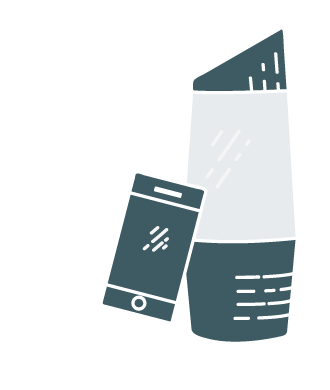
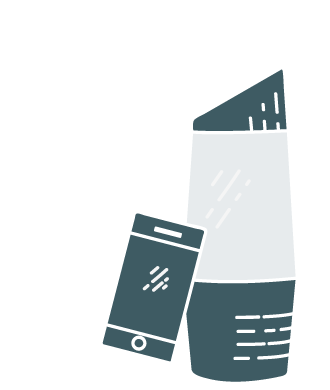
Made some animation changes. Added links to the contacts page.

Changed region(s): [[0.303, 0.4308, 0.9091, 0.9846], [0.5758, 0.0615, 0.8788, 0.3385]]

diff --git a/src/style.css b/src/style.css
@@ -1,1 +1,1 @@
-*{-webkit-box-sizing:border-box;-moz-box-sizing:border-box;box-sizing:border-box;color:#3E5B63}::selection{background:#3E5B63;color:#E7E5D6}::-moz-selection{background:#3E5B63;color:#E7E5D6}:-ms-input-placeholder,::-moz-placeholder,::-webkit-input-placeholder{color:#E7E5D6}:-ms-input-placeholder,::-moz-placeholder,::-webkit-input-placeholder,::placeholder{color:#E7E5D6}html{background:#E7E5D6;font-size:14px}body{margin:0;padding:0;width:100%;height:100%}section{height:100vh;width:100vw}h1,h2,h3{font-family:Poppins,sans-serif;text-transform:uppercase}button,p,small,ul{font-family:'Open Sans',sans-serif;margin:0}h1{font-size:4rem;margin:0}h2{font-size:2rem;position:relative}h3{font-size:3rem}.btn{border:3px solid #3E5B63;display:inline-block;margin-top:2rem}.btn button{background:0 0;border:none;color:#3E5B63;cursor:pointer;font-weight:900;font-size:1rem;height:4rem;position:relative;text-transform:uppercase;-webkit-transition:color 300ms;transition:color 300ms;width:19rem}.btn button::after{background:#3E5B63;bottom:0;content:"";left:0;position:absolute;height:0;-webkit-transition:height 300ms;transition:height 300ms;width:100%;z-index:-1}.btn:hover button{color:#E7E5D6}.btn:hover button::after{height:100%}p{font-size:1.25rem}main section{position:relative}.sect-text h2{line-height:1.25}.introduction{background:url(../src/img/bernard_cutout.png) 100% 100% no-repeat #E7E5D6;background-size:auto 90%;z-index:3}.introduction .sect-text p{width:100%}.sect-text{position:absolute;top:20%}.text-left{left:15%}.text-center{text-align:center}.text-right{right:15%}@media only screen and (min-width:768px) and (max-width:1023px){.text-right{right:10%}}.text-shallow{width:30%}@media only screen and (min-width:768px) and (max-width:1023px){.text-shallow{width:35%}}.product-presentation{background:url(../src/img/kitchen_bg.jpg) 100% 50% no-repeat;background-size:100% auto;z-index:1}@media only screen and (min-width:768px) and (max-width:1023px){.product-presentation{background-position:100% 0;background-size:auto 100%}}.problem-statement h2::after,.product-presentation h2::after{background-color:#E7E5D6;content:"";height:1px;left:0;position:absolute;top:110%;width:50%}.lightbar{background:url(../src/img/bernard_rising_light.png) no-repeat;bottom:15%;height:591px;left:10%;position:absolute;width:400px}@media only screen and (min-width:768px) and (max-width:1023px){.lightbar{bottom:20%}}.light-1{background-position:0 0}.light-2{background-position:-400px 0}.light-3{background-position:-800px 0}.light-4{background-position:-1200px 0}.product-presentation .sect-text h2,.product-presentation .sect-text p,.product-presentation .sect-text small{color:#E7E5D6}.problem-statement{background-image:url(img/bernard_binary.png)}@media only screen and (min-width:768px) and (max-width:1023px){.problem-statement{-webkit-box-align:center;-webkit-align-items:center;-ms-flex-align:center;align-items:center;display:-webkit-box;display:-webkit-flex;display:-ms-flexbox;display:flex;-webkit-box-orient:vertical;-webkit-box-direction:normal;-webkit-flex-direction:column;-ms-flex-direction:column;flex-direction:column;-webkit-box-pack:center;-webkit-justify-content:center;-ms-flex-pack:center;justify-content:center}}.problem-statement h2::after{background-color:#3E5B63}.problem-statement img{position:absolute;width:20rem;top:30%}.problem-statement .sect-text{top:30%}.pig-img{right:20%}.card-img{-webkit-transform:rotate(-100deg) translate(-webkit-calc(20rem + 20px));-ms-transform:rotate(-100deg) translate(calc(20rem + 20px));transform:rotate(-100deg) translate(calc(20rem + 20px));right:12%}.how-it-works{background:#3E5B63}@media only screen and (min-width:768px) and (max-width:1023px){.how-it-works{-webkit-box-align:center;-webkit-align-items:center;-ms-flex-align:center;align-items:center;display:-webkit-box;display:-webkit-flex;display:-ms-flexbox;display:flex;-webkit-box-orient:vertical;-webkit-box-direction:normal;-webkit-flex-direction:column;-ms-flex-direction:column;flex-direction:column;-webkit-box-pack:center;-webkit-justify-content:center;-ms-flex-pack:center;justify-content:center}}.how-it-works h2{color:#E7E5D6;padding-top:3rem;margin-top:0}.steps{display:-webkit-box;display:-webkit-flex;display:-ms-flexbox;display:flex;-webkit-box-pack:center;-webkit-justify-content:center;-ms-flex-pack:center;justify-content:center;width:100%}.step{margin:0 2.5vw;text-align:center;width:20vw}@media only screen and (min-width:768px) and (max-width:1023px){.step{margin:0 1vw;width:31vw}}.step-number{-webkit-box-align:center;-webkit-align-items:center;-ms-flex-align:center;align-items:center;display:-webkit-box;display:-webkit-flex;display:-ms-flexbox;display:flex;-webkit-box-pack:center;-webkit-justify-content:center;-ms-flex-pack:center;justify-content:center;margin:1rem 0;width:100%}.step-number span{background:#E7E5D6;-webkit-box-align:center;-webkit-align-items:center;-ms-flex-align:center;align-items:center;border:3px solid #E7E5D6;border-radius:100%;color:#3E5B63;display:-webkit-box;display:-webkit-flex;display:-ms-flexbox;display:flex;font-family:Poppins,sans-serif;font-size:1.5rem;font-weight:900;height:2.5rem;-webkit-box-pack:center;-webkit-justify-content:center;-ms-flex-pack:center;justify-content:center;text-align:center;vertical-align:middle;width:2.5rem}.step-img-container{height:33vh;position:relative}@media only screen and (min-width:768px) and (max-width:1023px){.step-img-container{height:20vh}}.step img{bottom:0;height:100%;left:0;margin-top:5rem;position:absolute;width:auto}.phonehand{-webkit-animation-name:phonehand;animation-name:phonehand;-webkit-animation-duration:1500ms;animation-duration:1500ms;-webkit-animation-timing-function:ease-in-out;animation-timing-function:ease-in-out;-webkit-animation-delay:0;animation-delay:0;-webkit-animation-iteration-count:infinite;animation-iteration-count:infinite;-webkit-animation-direction:alternate;animation-direction:alternate;-webkit-animation-fill-mode:none;animation-fill-mode:none}@-webkit-keyframes phonehand{from{-webkit-transform:translate(5px,5px);transform:translate(5px,5px)}to{-webkit-transform:translate(5px,12px);transform:translate(5px,12px)}}@keyframes phonehand{from{-webkit-transform:translate(5px,5px);-ms-transform:translate(5px,5px);transform:translate(5px,5px)}to{-webkit-transform:translate(5px,12px);-ms-transform:translate(5px,12px);transform:translate(5px,12px)}}.cardhand{-webkit-animation:1500ms cardhand infinite alternate ease-in-out;animation:1500ms cardhand infinite alternate ease-in-out;-webkit-animation-name:cardhand;animation-name:cardhand;-webkit-animation-duration:1500ms;animation-duration:1500ms;-webkit-animation-timing-function:ease-in-out;animation-timing-function:ease-in-out;-webkit-animation-delay:0;animation-delay:0;-webkit-animation-iteration-count:infinite;animation-iteration-count:infinite;-webkit-animation-direction:alternate;animation-direction:alternate;-webkit-animation-fill-mode:none;animation-fill-mode:none;-webkit-transform:translate(10px,-15px);-ms-transform:translate(10px,-15px);transform:translate(10px,-15px)}@-webkit-keyframes cardhand{from{-webkit-transform:translate(10px,-15px);transform:translate(10px,-15px)}to{-webkit-transform:translate(12px,-3px);transform:translate(12px,-3px)}}@keyframes cardhand{from{-webkit-transform:translate(10px,-15px);-ms-transform:translate(10px,-15px);transform:translate(10px,-15px)}to{-webkit-transform:translate(12px,-3px);-ms-transform:translate(12px,-3px);transform:translate(12px,-3px)}}.hammerhand{-webkit-animation-name:hammerhand;animation-name:hammerhand;-webkit-animation-duration:7500ms;animation-duration:7500ms;-webkit-animation-timing-function:ease-in-out;animation-timing-function:ease-in-out;-webkit-animation-delay:0;animation-delay:0;-webkit-animation-iteration-count:infinite;animation-iteration-count:infinite;-webkit-animation-direction:alternate;animation-direction:alternate;-webkit-animation-fill-mode:none;animation-fill-mode:none;-webkit-transform:rotate(-15deg) translate(20px,0);-ms-transform:rotate(-15deg) translate(20px,0);transform:rotate(-15deg) translate(20px,0)}@-webkit-keyframes hammerhand{0%{-webkit-transform:rotate(-15deg) translate(20px,0);transform:rotate(-15deg) translate(20px,0)}10%,90%{-webkit-transform:rotate(8deg) translate(-20px,10px);transform:rotate(8deg) translate(-20px,10px)}100%{-webkit-transform:rotate(-15deg) translate(20px,0);transform:rotate(-15deg) translate(20px,0)}}@keyframes hammerhand{0%{-webkit-transform:rotate(-15deg) translate(20px,0);-ms-transform:rotate(-15deg) translate(20px,0);transform:rotate(-15deg) translate(20px,0)}10%,90%{-webkit-transform:rotate(8deg) translate(-20px,10px);-ms-transform:rotate(8deg) translate(-20px,10px);transform:rotate(8deg) translate(-20px,10px)}100%{-webkit-transform:rotate(-15deg) translate(20px,0);-ms-transform:rotate(-15deg) translate(20px,0);transform:rotate(-15deg) translate(20px,0)}}.hammercrack{-webkit-animation-name:hammercrack;animation-name:hammercrack;-webkit-animation-duration:7500ms;animation-duration:7500ms;-webkit-animation-timing-function:ease;animation-timing-function:ease;-webkit-animation-delay:800ms;animation-delay:800ms;-webkit-animation-iteration-count:infinite;animation-iteration-count:infinite;-webkit-animation-direction:normal;animation-direction:normal;-webkit-animation-fill-mode:none;animation-fill-mode:none;opacity:0}@-webkit-keyframes hammercrack{0%{opacity:0}15%,70%{opacity:1}100%,85%{opacity:0}}@keyframes hammercrack{0%{opacity:0}15%,70%{opacity:1}100%,85%{opacity:0}}.step h3,.step p{color:#E7E5D6}.step h3{font-size:2rem;margin:0 0 1rem}.step p{font-size:1.25rem}@media only screen and (min-width:768px) and (max-width:1023px){.the-design{display:-webkit-box;display:-webkit-flex;display:-ms-flexbox;display:flex;-webkit-box-orient:vertical;-webkit-box-direction:normal;-webkit-flex-direction:column;-ms-flex-direction:column;flex-direction:column;-webkit-box-pack:center;-webkit-justify-content:center;-ms-flex-pack:center;justify-content:center}}.the-design h2{margin-bottom:7.5rem}@media only screen and (min-width:768px) and (max-width:1023px){.the-design h2{margin-top:0;padding-top:2rem}}.the-design .img-container{margin:0 auto;position:relative;width:20vw}@media only screen and (min-width:768px) and (max-width:1023px){.the-design .img-container{text-align:center;width:50vw}}.the-design .img-container img{height:auto;width:100%}@media only screen and (min-width:768px) and (max-width:1023px){.the-design .img-container img{height:50vh;width:auto}}.spec-label{opacity:0;position:absolute}.spec-label:nth-child(3){-webkit-transition:opacity 500ms;transition:opacity 500ms}.spec-label:nth-child(4){-webkit-transition:opacity 500ms 500ms;transition:opacity 500ms 500ms}.spec-label:nth-child(5){-webkit-transition:opacity 500ms 1000ms;transition:opacity 500ms 1000ms}.spec-label p{font-size:1.25rem;width:15rem}.size-label{position:absolute}.size-label p{font-family:Poppins,sans-serif;font-size:1rem;text-align:center}.height-label{left:105%;height:100%;top:50%}.height-label p{left:33%;position:relative;top:-5%;width:3rem}.height-label .size-line{border-right:1px dotted #3E5B63;height:100%;position:absolute;top:-50%;width:1px}.width-label{bottom:-10%;width:100%}.width-label .size-line{border-bottom:1px dotted #3E5B63;height:1px;position:absolute;width:100%}.label-left{left:20%}@media only screen and (min-width:768px) and (max-width:1023px){.label-left{left:5%}}.label-right{left:70%}@media only screen and (min-width:768px) and (max-width:1023px){.label-right{left:5%}}.label-line{background:#3E5B63;bottom:50%;height:1px;position:absolute;-webkit-transition:width 300ms;transition:width 300ms;width:0}.label-left .label-line{left:100%}.label-right .label-line{right:110%}@media only screen and (min-width:768px) and (max-width:1023px){.label-right .label-line{right:initial;left:100%}}.payment-label{top:15%}@media only screen and (min-width:768px) and (max-width:1023px){.payment-label{top:32%}}.materials-label{top:35%}@media only screen and (min-width:768px) and (max-width:1023px){.materials-label{top:50%}}.tech-label{top:60%}@media only screen and (min-width:768px) and (max-width:1023px){.tech-label{top:75%}}.spec-label:nth-child(3) .label-line{-webkit-transition:width 500ms 50ms;transition:width 500ms 50ms}.spec-label:nth-child(4) .label-line{-webkit-transition:width 500ms 600ms;transition:width 500ms 600ms}.spec-label:nth-child(5) .label-line{-webkit-transition:width 500ms 1150ms;transition:width 500ms 1150ms}.the-design.animated .spec-label{opacity:1}.the-design.animated .spec-label .label-line{width:15vw}.outro{background:url(../src/img/apartment_bg.jpg) 0 100% no-repeat;background-size:100% auto;z-index:0}@media only screen and (min-width:768px) and (max-width:1023px){.outro{background-position:0 0;background-size:auto 100%}}.outro .sect-text button,.outro .sect-text h2,.outro .sect-text p{color:#E7E5D6}.outro .btn{border:3px solid #E7E5D6}.outro .btn button{z-index:1}.outro .btn button::after{background:#E7E5D6;z-index:-1}.outro .btn:hover button::after{height:100%}.outro .btn:hover button{color:#3E5B63}.outro .img-container{-webkit-perspective:500px;-ms-perspective:500px;perspective:500px}.outro .img-container img{position:absolute;right:20%;top:25%;width:25rem}.bernard-one{-webkit-transform:translate3d(20px,125px,-50px);-ms-transform:translate3d(20px,125px,-50px);transform:translate3d(20px,125px,-50px)}@media only screen and (min-width:768px) and (max-width:1023px){.bernard-one{-webkit-transform:translate3d(110px,425px,-50px);-ms-transform:translate3d(110px,425px,-50px);transform:translate3d(110px,425px,-50px)}}.bernard-two{-webkit-transform:translate3d(-100px,150px,0);-ms-transform:translate3d(-100px,150px,0);transform:translate3d(-100px,150px,0)}@media only screen and (min-width:768px) and (max-width:1023px){.bernard-two{-webkit-transform:translate3d(-10px,450px,0);-ms-transform:translate3d(-10px,450px,0);transform:translate3d(-10px,450px,0)}}.signup-sheet{background:#3E5B63;left:0;position:fixed;top:-110%;-webkit-transition:top 750ms ease-in-out;transition:top 750ms ease-in-out;z-index:999}.signup-sheet.visible{top:0}.signup-sheet h2,.signup-sheet p{color:#E7E5D6}form input{background:0 0;border:3px solid #E7E5D6;color:#E7E5D6;font-family:Poppins,sans-serif;font-size:1rem;margin-top:2rem;padding:1rem}form input[type=email]{width:20rem}form input[type=submit]{cursor:pointer;text-transform:uppercase;-webkit-transition:all 300ms;transition:all 300ms;width:7.5rem}form input[type=submit]:hover{background:#E7E5D6;color:#3E5B63}.close-container{position:absolute;right:5%;top:0}.close{background:0 0;border:none;color:#E7E5D6;cursor:pointer;display:block;font-family:Poppins,sans-serif;font-size:4rem;height:2rem;-webkit-transition:-webkit-transform 300ms;transition:transform 300ms;width:2rem}.close:hover{-webkit-transform:scale(1.1);-ms-transform:scale(1.1);transform:scale(1.1)}footer{background:#3E5B63}footer td,footer td a{color:#E7E5D6;font-family:Poppins,sans-serif;text-transform:uppercase}footer table{height:4rem;width:100%}.table-left{padding-left:1.5rem;text-align:left}.table-right{padding-right:1.5rem;text-align:right}.contact-sheet a,.table-right a{position:relative;text-decoration:none}.contact-sheet a::after,.table-right a::after{background:#E7E5D6;bottom:0;content:'';height:0;left:50%;position:absolute;-webkit-transition:left 300ms,width 300ms;transition:left 300ms,width 300ms;width:0}.contact-sheet a:hover::after,.table-right a:hover::after{height:1px;left:0;width:100%}.table-right a:first-child{margin-right:.5rem}.table-right a:last-child{margin-left:.5rem}.contact-sheet{background-color:#E7E5D6;left:0;position:fixed;top:-110%;-webkit-transition:top 750ms ease-in-out;transition:top 750ms ease-in-out;z-index:999}.contact-sheet.visible{top:0}.contact-sheet ul{list-style:none;margin:0;padding:0}.contact-sheet ul li{margin:1rem 0}.contact-sheet a::after{background:#3E5B63}.contact-sheet .close{color:#3E5B63}.terms-sheet{background-color:#3E5B63;left:0;position:fixed;top:-110%;-webkit-transition:top 750ms ease-in-out;transition:top 750ms ease-in-out;z-index:999}.terms-sheet.visible{top:0}.terms-sheet .sect-text{height:100%;margin:0 auto;position:static;width:50%}.terms-sheet h2{color:#E7E5D6}.terms-sheet p{color:#E7E5D6;height:80%;overflow:scroll}
+*{-webkit-box-sizing:border-box;-moz-box-sizing:border-box;box-sizing:border-box;color:#3E5B63}::selection{background:#3E5B63;color:#E7E5D6}::-moz-selection{background:#3E5B63;color:#E7E5D6}:-ms-input-placeholder,::-moz-placeholder,::-webkit-input-placeholder{color:#E7E5D6}:-ms-input-placeholder,::-moz-placeholder,::-webkit-input-placeholder,::placeholder{color:#E7E5D6}html{background:#E7E5D6;font-size:14px}body{margin:0;padding:0;width:100%;height:100%}section{height:100vh;width:100vw}h1,h2,h3{font-family:Poppins,sans-serif;text-transform:uppercase}button,p,small,ul{font-family:'Open Sans',sans-serif;margin:0}h1{font-size:4rem;margin:0}h2{font-size:2rem;position:relative}h3{font-size:3rem}.btn{border:3px solid #3E5B63;display:inline-block;margin-top:2rem}.btn button{background:0 0;border:none;color:#3E5B63;cursor:pointer;font-weight:900;font-size:1rem;height:4rem;position:relative;text-transform:uppercase;-webkit-transition:color 300ms;transition:color 300ms;width:19rem}.btn button::after{background:#3E5B63;bottom:0;content:"";left:0;position:absolute;height:0;-webkit-transition:height 300ms;transition:height 300ms;width:100%;z-index:-1}.btn:hover button{color:#E7E5D6}.btn:hover button::after{height:100%}li,p{font-size:1.25rem}main section{position:relative}.sect-text h2{line-height:1.25}.introduction{background:url(../src/img/bernard_cutout.png) 100% 100% no-repeat #E7E5D6;background-size:auto 90%;z-index:3}.introduction .sect-text p{width:100%}.sect-text{position:absolute;top:20%}.text-left{left:15%}.text-center{text-align:center}.text-right{right:15%}@media only screen and (min-width:768px) and (max-width:1023px){.text-right{right:10%}}.text-shallow{width:30%}@media only screen and (min-width:768px) and (max-width:1023px){.text-shallow{width:35%}}.product-presentation{background:url(../src/img/kitchen_bg.jpg) 100% 50% no-repeat;background-size:100% auto;z-index:1}@media only screen and (min-width:768px) and (max-width:1023px){.product-presentation{background-position:100% 0;background-size:auto 100%}}.lightbar{background:url(../src/img/lightbars.png) no-repeat;bottom:15%;height:585px;left:10%;position:absolute;width:375px}@media only screen and (min-width:768px) and (max-width:1023px){.lightbar{bottom:20%}}.light-1{background-position:0 0}.light-2{background-position:-375px 0}.light-3{background-position:-750px 0}.light-4{background-position:-1125px 0}.product-presentation .sect-text p,.product-presentation .sect-text small{color:#E7E5D6}.product-presentation h2{color:#3E5B63}.problem-statement h2::after,.product-presentation h2::after{background-color:#3E5B63;content:"";height:1px;left:0;position:absolute;top:110%;width:50%}.problem-statement{background-image:url(img/bernard_binary.png)}@media only screen and (min-width:768px) and (max-width:1023px){.problem-statement{-webkit-box-align:center;-webkit-align-items:center;-ms-flex-align:center;align-items:center;display:-webkit-box;display:-webkit-flex;display:-ms-flexbox;display:flex;-webkit-box-orient:vertical;-webkit-box-direction:normal;-webkit-flex-direction:column;-ms-flex-direction:column;flex-direction:column;-webkit-box-pack:center;-webkit-justify-content:center;-ms-flex-pack:center;justify-content:center}}.problem-statement h2::after{background-color:#3E5B63}.problem-statement img{position:absolute;width:20rem;top:30%}.problem-statement .sect-text{top:30%}.pig-img{right:20%}.card-img{-webkit-transform:rotate(-100deg) translate(-webkit-calc(20rem + 20px));-ms-transform:rotate(-100deg) translate(calc(20rem + 20px));transform:rotate(-100deg) translate(calc(20rem + 20px));right:12%}.how-it-works{background:#3E5B63}@media only screen and (min-width:768px) and (max-width:1023px){.how-it-works{-webkit-box-align:center;-webkit-align-items:center;-ms-flex-align:center;align-items:center;display:-webkit-box;display:-webkit-flex;display:-ms-flexbox;display:flex;-webkit-box-orient:vertical;-webkit-box-direction:normal;-webkit-flex-direction:column;-ms-flex-direction:column;flex-direction:column;-webkit-box-pack:center;-webkit-justify-content:center;-ms-flex-pack:center;justify-content:center}}.how-it-works h2{color:#E7E5D6;padding-top:3rem;margin-top:0}.steps{display:-webkit-box;display:-webkit-flex;display:-ms-flexbox;display:flex;-webkit-box-pack:center;-webkit-justify-content:center;-ms-flex-pack:center;justify-content:center;width:100%}.step{margin:0 2.5vw;text-align:center;width:20vw}@media only screen and (min-width:768px) and (max-width:1023px){.step{margin:0 1vw;width:31vw}}.step-number{-webkit-box-align:center;-webkit-align-items:center;-ms-flex-align:center;align-items:center;display:-webkit-box;display:-webkit-flex;display:-ms-flexbox;display:flex;-webkit-box-pack:center;-webkit-justify-content:center;-ms-flex-pack:center;justify-content:center;margin:1rem 0;width:100%}.step-number span{background:#E7E5D6;-webkit-box-align:center;-webkit-align-items:center;-ms-flex-align:center;align-items:center;border:3px solid #E7E5D6;border-radius:100%;color:#3E5B63;display:-webkit-box;display:-webkit-flex;display:-ms-flexbox;display:flex;font-family:Poppins,sans-serif;font-size:1.5rem;font-weight:900;height:2.5rem;-webkit-box-pack:center;-webkit-justify-content:center;-ms-flex-pack:center;justify-content:center;text-align:center;vertical-align:middle;width:2.5rem}.step-img-container{height:33vh;position:relative}@media only screen and (min-width:768px) and (max-width:1023px){.step-img-container{height:20vh}}.step img{bottom:0;height:100%;left:0;margin-top:5rem;position:absolute;width:auto}.phonehand{-webkit-transform:translate(5px,5px);-ms-transform:translate(5px,5px);transform:translate(5px,5px)}.animated .phonehand{-webkit-animation-name:phonehand;animation-name:phonehand;-webkit-animation-duration:1500ms;animation-duration:1500ms;-webkit-animation-timing-function:ease-in-out;animation-timing-function:ease-in-out;-webkit-animation-delay:0;animation-delay:0;-webkit-animation-iteration-count:infinite;animation-iteration-count:infinite;-webkit-animation-direction:alternate;animation-direction:alternate;-webkit-animation-fill-mode:none;animation-fill-mode:none}@-webkit-keyframes phonehand{from{-webkit-transform:translate(5px,5px);transform:translate(5px,5px)}to{-webkit-transform:translate(5px,12px);transform:translate(5px,12px)}}@keyframes phonehand{from{-webkit-transform:translate(5px,5px);-ms-transform:translate(5px,5px);transform:translate(5px,5px)}to{-webkit-transform:translate(5px,12px);-ms-transform:translate(5px,12px);transform:translate(5px,12px)}}.cardhand{-webkit-transform:translate(10px,-15px);-ms-transform:translate(10px,-15px);transform:translate(10px,-15px)}.animated .cardhand{-webkit-animation:1500ms cardhand infinite alternate ease-in-out;animation:1500ms cardhand infinite alternate ease-in-out;-webkit-animation-name:cardhand;animation-name:cardhand;-webkit-animation-duration:1500ms;animation-duration:1500ms;-webkit-animation-timing-function:ease-in-out;animation-timing-function:ease-in-out;-webkit-animation-delay:1500ms;animation-delay:1500ms;-webkit-animation-iteration-count:infinite;animation-iteration-count:infinite;-webkit-animation-direction:alternate;animation-direction:alternate;-webkit-animation-fill-mode:none;animation-fill-mode:none}@-webkit-keyframes cardhand{from{-webkit-transform:translate(10px,-15px);transform:translate(10px,-15px)}to{-webkit-transform:translate(12px,-3px);transform:translate(12px,-3px)}}@keyframes cardhand{from{-webkit-transform:translate(10px,-15px);-ms-transform:translate(10px,-15px);transform:translate(10px,-15px)}to{-webkit-transform:translate(12px,-3px);-ms-transform:translate(12px,-3px);transform:translate(12px,-3px)}}.hammerhand{-webkit-transform:rotate(-15deg) translate(20px,0);-ms-transform:rotate(-15deg) translate(20px,0);transform:rotate(-15deg) translate(20px,0)}.animated .hammerhand{-webkit-animation-name:hammerhand;animation-name:hammerhand;-webkit-animation-duration:6000ms;animation-duration:6000ms;-webkit-animation-timing-function:ease-in-out;animation-timing-function:ease-in-out;-webkit-animation-delay:3000ms;animation-delay:3000ms;-webkit-animation-iteration-count:infinite;animation-iteration-count:infinite;-webkit-animation-direction:alternate;animation-direction:alternate;-webkit-animation-fill-mode:none;animation-fill-mode:none}@-webkit-keyframes hammerhand{0%{-webkit-transform:rotate(-15deg) translate(20px,0);transform:rotate(-15deg) translate(20px,0)}10%,90%{-webkit-transform:rotate(8deg) translate(-20px,10px);transform:rotate(8deg) translate(-20px,10px)}100%{-webkit-transform:rotate(-15deg) translate(20px,0);transform:rotate(-15deg) translate(20px,0)}}@keyframes hammerhand{0%{-webkit-transform:rotate(-15deg) translate(20px,0);-ms-transform:rotate(-15deg) translate(20px,0);transform:rotate(-15deg) translate(20px,0)}10%,90%{-webkit-transform:rotate(8deg) translate(-20px,10px);-ms-transform:rotate(8deg) translate(-20px,10px);transform:rotate(8deg) translate(-20px,10px)}100%{-webkit-transform:rotate(-15deg) translate(20px,0);-ms-transform:rotate(-15deg) translate(20px,0);transform:rotate(-15deg) translate(20px,0)}}.hammercrack{opacity:0}.animated .hammercrack{-webkit-animation-name:hammercrack;animation-name:hammercrack;-webkit-animation-duration:6000ms;animation-duration:6000ms;-webkit-animation-timing-function:ease;animation-timing-function:ease;-webkit-animation-delay:3660ms;animation-delay:3660ms;-webkit-animation-iteration-count:infinite;animation-iteration-count:infinite;-webkit-animation-direction:normal;animation-direction:normal;-webkit-animation-fill-mode:none;animation-fill-mode:none}@-webkit-keyframes hammercrack{0%{opacity:0}15%,70%{opacity:1}100%,85%{opacity:0}}@keyframes hammercrack{0%{opacity:0}15%,70%{opacity:1}100%,85%{opacity:0}}.step h3,.step p{color:#E7E5D6}.step h3{font-size:2rem;margin:0 0 1rem}.step p{font-size:1.25rem}@media only screen and (min-width:768px) and (max-width:1023px){.the-design{display:-webkit-box;display:-webkit-flex;display:-ms-flexbox;display:flex;-webkit-box-orient:vertical;-webkit-box-direction:normal;-webkit-flex-direction:column;-ms-flex-direction:column;flex-direction:column;-webkit-box-pack:center;-webkit-justify-content:center;-ms-flex-pack:center;justify-content:center}}.the-design h2{margin-bottom:7.5rem}@media only screen and (min-width:768px) and (max-width:1023px){.the-design h2{margin-top:0;padding-top:2rem}}.the-design .img-container{margin:0 auto;position:relative;width:20vw}@media only screen and (min-width:768px) and (max-width:1023px){.the-design .img-container{text-align:center;width:50vw}}.the-design .img-container img{height:auto;width:100%}@media only screen and (min-width:768px) and (max-width:1023px){.the-design .img-container img{height:50vh;width:auto}}.spec-label{opacity:0;position:absolute}.spec-label:nth-child(3){-webkit-transition:opacity 500ms;transition:opacity 500ms}.spec-label:nth-child(4){-webkit-transition:opacity 500ms 500ms;transition:opacity 500ms 500ms}.spec-label:nth-child(5){-webkit-transition:opacity 500ms 1000ms;transition:opacity 500ms 1000ms}.spec-label p{font-size:1.25rem;width:15rem}.size-label{position:absolute}.size-label p{font-family:Poppins,sans-serif;font-size:1rem;text-align:center}.height-label{left:105%;height:100%;top:50%}.height-label p{left:33%;position:relative;top:-5%;width:3rem}.height-label .size-line{border-right:1px dotted #3E5B63;height:100%;position:absolute;top:-50%;width:1px}.width-label{bottom:-10%;width:100%}.width-label .size-line{border-bottom:1px dotted #3E5B63;height:1px;position:absolute;width:100%}.label-left{left:20%}@media only screen and (min-width:768px) and (max-width:1023px){.label-left{left:5%}}.label-right{left:70%}@media only screen and (min-width:768px) and (max-width:1023px){.label-right{left:5%}}.label-line{background:#3E5B63;bottom:50%;height:1px;position:absolute;-webkit-transition:width 300ms;transition:width 300ms;width:0}.label-left .label-line{left:100%}.label-right .label-line{right:110%}@media only screen and (min-width:768px) and (max-width:1023px){.label-right .label-line{right:initial;left:100%}}.payment-label{top:20%}@media only screen and (min-width:768px) and (max-width:1023px){.payment-label{top:32%}}.materials-label{top:35%}@media only screen and (min-width:768px) and (max-width:1023px){.materials-label{top:50%}}.tech-label{top:60%}@media only screen and (min-width:768px) and (max-width:1023px){.tech-label{top:75%}}.spec-label:nth-child(3) .label-line{-webkit-transition:width 500ms 50ms;transition:width 500ms 50ms}.spec-label:nth-child(4) .label-line{-webkit-transition:width 500ms 600ms;transition:width 500ms 600ms}.spec-label:nth-child(5) .label-line{-webkit-transition:width 500ms 1150ms;transition:width 500ms 1150ms}.the-design.animated .spec-label{opacity:1}.the-design.animated .spec-label .label-line{width:15vw}.outro{background:url(../src/img/apartment_bg.jpg) 0 100% no-repeat;background-size:100% auto;z-index:0}@media only screen and (min-width:768px) and (max-width:1023px){.outro{background-position:0 0;background-size:auto 100%}}.outro .sect-text button,.outro .sect-text h2,.outro .sect-text p{color:#E7E5D6}.outro .btn{border:3px solid #E7E5D6}.outro .btn button{z-index:1}.outro .btn button::after{background:#E7E5D6;z-index:-1}.outro .btn:hover button::after{height:100%}.outro .btn:hover button{color:#3E5B63}.outro .img-container{-webkit-perspective:500px;-ms-perspective:500px;perspective:500px}.outro .img-container img{position:absolute;right:20%;top:25%;width:25rem}.bernard-one{-webkit-transform:translate3d(20px,125px,-50px);-ms-transform:translate3d(20px,125px,-50px);transform:translate3d(20px,125px,-50px)}@media only screen and (min-width:768px) and (max-width:1023px){.bernard-one{-webkit-transform:translate3d(110px,425px,-50px);-ms-transform:translate3d(110px,425px,-50px);transform:translate3d(110px,425px,-50px)}}.bernard-two{-webkit-transform:translate3d(-100px,150px,0);-ms-transform:translate3d(-100px,150px,0);transform:translate3d(-100px,150px,0)}@media only screen and (min-width:768px) and (max-width:1023px){.bernard-two{-webkit-transform:translate3d(-10px,450px,0);-ms-transform:translate3d(-10px,450px,0);transform:translate3d(-10px,450px,0)}}.signup-sheet{background:#3E5B63;left:0;position:fixed;top:-110%;-webkit-transition:top 750ms ease-in-out;transition:top 750ms ease-in-out;z-index:999}.signup-sheet.visible{top:0}.signup-sheet h2,.signup-sheet p{color:#E7E5D6}form input{background:0 0;border:3px solid #E7E5D6;color:#E7E5D6;font-family:Poppins,sans-serif;font-size:1rem;margin-top:2rem;padding:1rem}form input[type=email]{width:20rem}form input[type=submit]{cursor:pointer;text-transform:uppercase;-webkit-transition:all 300ms;transition:all 300ms;width:7.5rem}form input[type=submit]:hover{background:#E7E5D6;color:#3E5B63}.close-container{position:absolute;right:5%;top:0}.close{background:0 0;border:none;color:#E7E5D6;cursor:pointer;display:block;font-family:Poppins,sans-serif;font-size:4rem;height:2rem;-webkit-transition:-webkit-transform 300ms;transition:transform 300ms;width:2rem}.close:hover{-webkit-transform:scale(1.1);-ms-transform:scale(1.1);transform:scale(1.1)}footer{background:#3E5B63}footer td,footer td a{color:#E7E5D6;font-family:Poppins,sans-serif;text-transform:uppercase}footer table{height:4rem;width:100%}.table-left{padding-left:1.5rem;text-align:left}.table-right{padding-right:1.5rem;text-align:right}.contact-sheet a,.table-right a{position:relative;text-decoration:none}.contact-sheet a::after,.table-right a::after{background:#E7E5D6;bottom:0;content:'';height:0;left:50%;position:absolute;-webkit-transition:left 300ms,width 300ms;transition:left 300ms,width 300ms;width:0}.contact-sheet a:hover::after,.table-right a:hover::after{height:1px;left:0;width:100%}.table-right a:first-child{margin-right:.5rem}.table-right a:last-child{margin-left:.5rem}.contact-sheet{background-color:#E7E5D6;left:0;position:fixed;top:-110%;-webkit-transition:top 750ms ease-in-out;transition:top 750ms ease-in-out;z-index:999}.contact-sheet.visible{top:0}.contact-sheet ul{list-style:none;margin:0;padding:0}.contact-sheet ul li{margin:1rem 0}.contact-sheet a::after{background:#3E5B63}.contact-sheet .close{color:#3E5B63}.terms-sheet{background-color:#3E5B63;left:0;position:fixed;top:-110%;-webkit-transition:top 750ms ease-in-out;transition:top 750ms ease-in-out;z-index:999}.terms-sheet.visible{top:0}.terms-sheet .sect-text{height:100%;margin:0 auto;position:static;width:50%}.terms-sheet h2{color:#E7E5D6}.terms-sheet p{color:#E7E5D6;height:80%;overflow:scroll}

diff --git a/src/less/style.less b/src/less/style.less
@@ -101,7 +101,7 @@ h3 {
 	height: 100%;
 }
 
-p {
+p, li {
 	font-size: 1.25rem;
 }
 
@@ -169,24 +169,14 @@ main section {
 	}
 }
 
-.product-presentation h2::after, .problem-statement h2::after {
-	background-color: @bgcolor;
-	content: "";
-	height: 1px;
-	left: 0;
-	position: absolute;
-	top: 110%;
-	width: 50%;
-}
-
 .lightbar {
-	background: url(../src/img/bernard_rising_light.png);
+	background: url(../src/img/lightbars.png);
 	background-repeat: no-repeat;
 	bottom: 15%;
-	height: 591px;
+	height: 585px;
 	left: 10%;
 	position: absolute;
-	width: 400px;
+	width: 375px;
 
 	@media @tablets {
 		bottom: 20%;
@@ -200,14 +190,28 @@ main section {
 	// Create a selector with the class light-NUMBER
 	.light-@{i} {
 		// Set the background position to 0, -400px, -800px etc.
-		background-position: ( (@i - 1) * -400px) 0;
+		background-position: ( (@i - 1) * -375px) 0;
 	}
 	// Go on to the next part of the loop
 	.generate-light(@n, (@i + 1));
 }
 
-.product-presentation .sect-text h2, .product-presentation .sect-text p, .product-presentation .sect-text small {
+.product-presentation .sect-text p, .product-presentation .sect-text small {
 	color: @bgcolor;
+}
+
+.product-presentation h2 {
+	color: @textcolor;
+}
+
+.product-presentation h2::after, .problem-statement h2::after {
+	background-color: @textcolor;
+	content: "";
+	height: 1px;
+	left: 0;
+	position: absolute;
+	top: 110%;
+	width: 50%;
 }
 
 /* SECTION THREE */
@@ -324,6 +328,10 @@ main section {
 }
 
 .phonehand {
+	transform: translate(5px, 5px);
+}
+
+.animated .phonehand {
 	animation-name: phonehand;
 	animation-duration: 1500ms;
 	animation-timing-function: ease-in-out;
@@ -343,15 +351,18 @@ main section {
 }
 
 .cardhand {
+	transform: translate(10px, -15px);
+}
+
+.animated .cardhand {
 	animation: 1500ms cardhand infinite alternate ease-in-out;
 	animation-name: cardhand;
 	animation-duration: 1500ms;
 	animation-timing-function: ease-in-out;
-	animation-delay: 0;
+	animation-delay: 1500ms;
 	animation-iteration-count: infinite;
 	animation-direction: alternate;
 	animation-fill-mode: none;
-	transform: translate(10px, -15px);
 }
 
 @keyframes cardhand {
@@ -364,14 +375,17 @@ main section {
 }
 
 .hammerhand {
+	transform: rotate(-15deg) translate(20px, 0px);
+}
+
+.animated .hammerhand {
 	animation-name: hammerhand;
-	animation-duration: 7500ms;
+	animation-duration: 6000ms;
 	animation-timing-function: ease-in-out;
-	animation-delay: 0;
+	animation-delay: 3000ms;
 	animation-iteration-count: infinite;
 	animation-direction: alternate;
 	animation-fill-mode: none;
-	transform: rotate(-15deg) translate(20px, 0px);
 }
 
 @keyframes hammerhand {
@@ -390,14 +404,17 @@ main section {
 }
 
 .hammercrack {
+	opacity: 0;
+}
+
+.animated .hammercrack {
 	animation-name: hammercrack;
-	animation-duration: 7500ms;
+	animation-duration: 6000ms;
 	animation-timing-function: ease;
-	animation-delay: 800ms; // 10% of the hammerhand animation + small delay
+	animation-delay: 3660ms; // 10% of the hammerhand animation + small delay
 	animation-iteration-count: infinite;
 	animation-direction: normal;
 	animation-fill-mode: none;
-	opacity: 0;
 }
 
 @keyframes hammercrack {
@@ -573,7 +590,7 @@ main section {
 }
 
 .payment-label {
-	top: 15%;
+	top: 20%;
 
 	@media @tablets {
 		top: 32%;

diff --git a/index.html b/index.html
@@ -81,7 +81,7 @@
         	<section class="the-design">
         		<h2 class="text-center">The design</h2>
         		<div class="img-container">
-        			<img src="src/img/bernard_single.png">
+        			<img src="src/img/bernard_illu_single.png">
         			<div class="size-label width-label">
         				<div class="size-line"></div>
 	        			<p>10 cm</p>
@@ -92,7 +92,7 @@
 	        		</div>
         		</div>
         		<div class="spec-label payment-label label-left">
-        			<p>The NFC reader in the top makes sure your money is ready for the 21st century.</p>
+        			<p>The NFC reader in the top gets your savings ready for the 21st century.</p>
         			<div class="label-line"></div>
         		</div>
         		<div class="spec-label materials-label label-right">
@@ -112,8 +112,8 @@
 	        		</a>
         		</div>
         		<div class="img-container">
-					<img class="bernard-one" src="src/img/bernard_single.png"/>
-					<img class="bernard-two" src="src/img/bernard_single.png"/>
+					<img class="bernard-one" src="src/img/bernard_illu_single.png"/>
+					<img class="bernard-two" src="src/img/bernard_illu_single.png"/>
         		</div>
         	</section>
         	<section class="signup-sheet">
@@ -138,10 +138,10 @@
 	        		</p>
 	        		<h2>We are</h2>
 	        		<ul>
-	        			<li><a href="#">Jesper Hyldahl Fogh</a></li>
-	        			<li><a href="#">Nina Cecilie Højholdt</a></li>
-	        			<li><a href="#">Thomas Sandahl Christensen</a></li>
-	        			<li><a href="#">Victor Bayer Permild</a></li>
+	        			<li><a href="http://jepster.dk">Jesper Hyldahl Fogh</a></li>
+	        			<li><a href="http://fatpandaclub.com">Nina Cecilie Højholdt</a></li>
+	        			<li><a href="http://sandahl.tech">Thomas Sandahl Christensen</a></li>
+	        			<li><a href="http://curriculumvictor.com">Victor Bayer Permild</a></li>
 	        		</ul>
 				</div>
 				<div class="close-container">

diff --git a/src/main.js b/src/main.js
@@ -31,6 +31,12 @@ $(document).ready(function() {
 				transform: cardTrans
 			});*/
 		}
+
+		/* HOW IT WORKS */ 
+		var howTop = $('.how-it-works').offset().top;
+		if(scrollPos > howTop - 50) {
+			$('.how-it-works').addClass('animated');
+		}
 		
 		/* THE DESIGN */
 		var designTop = $('.the-design').offset().top;
